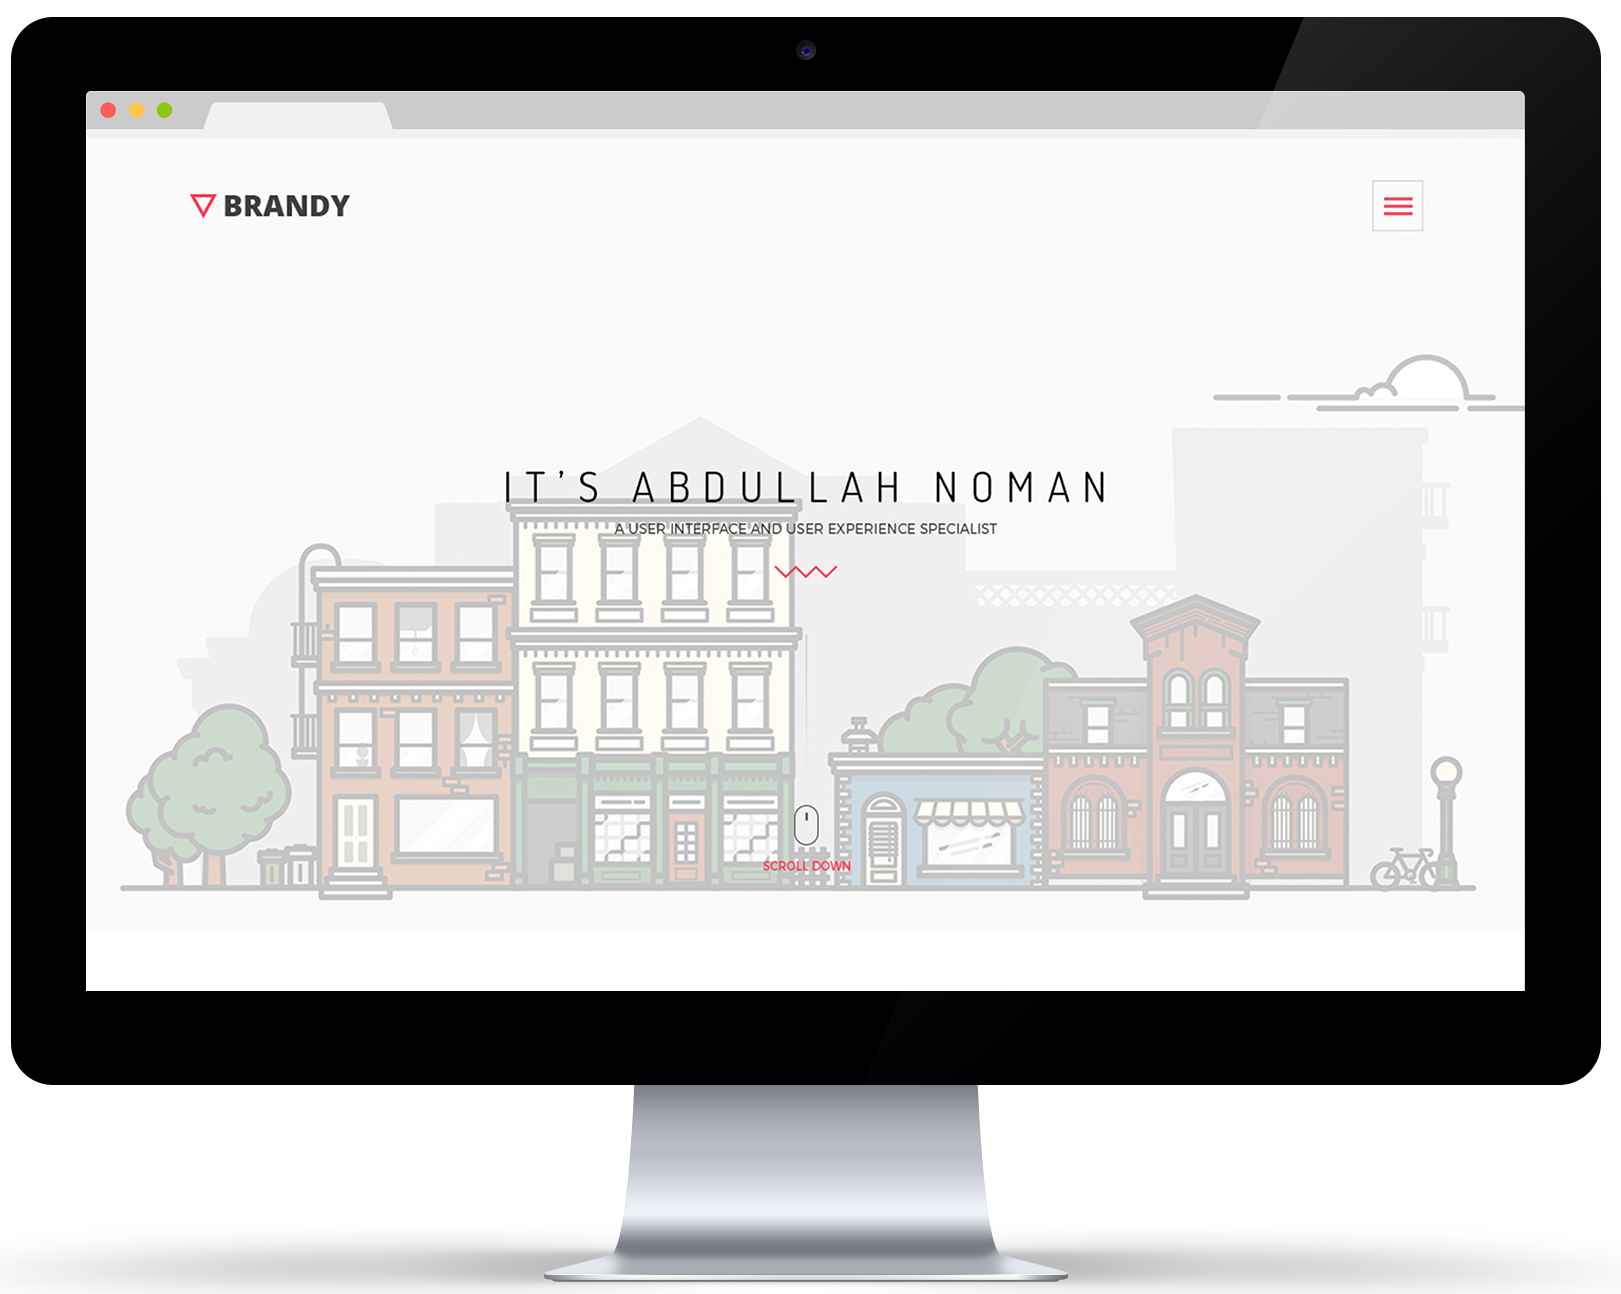
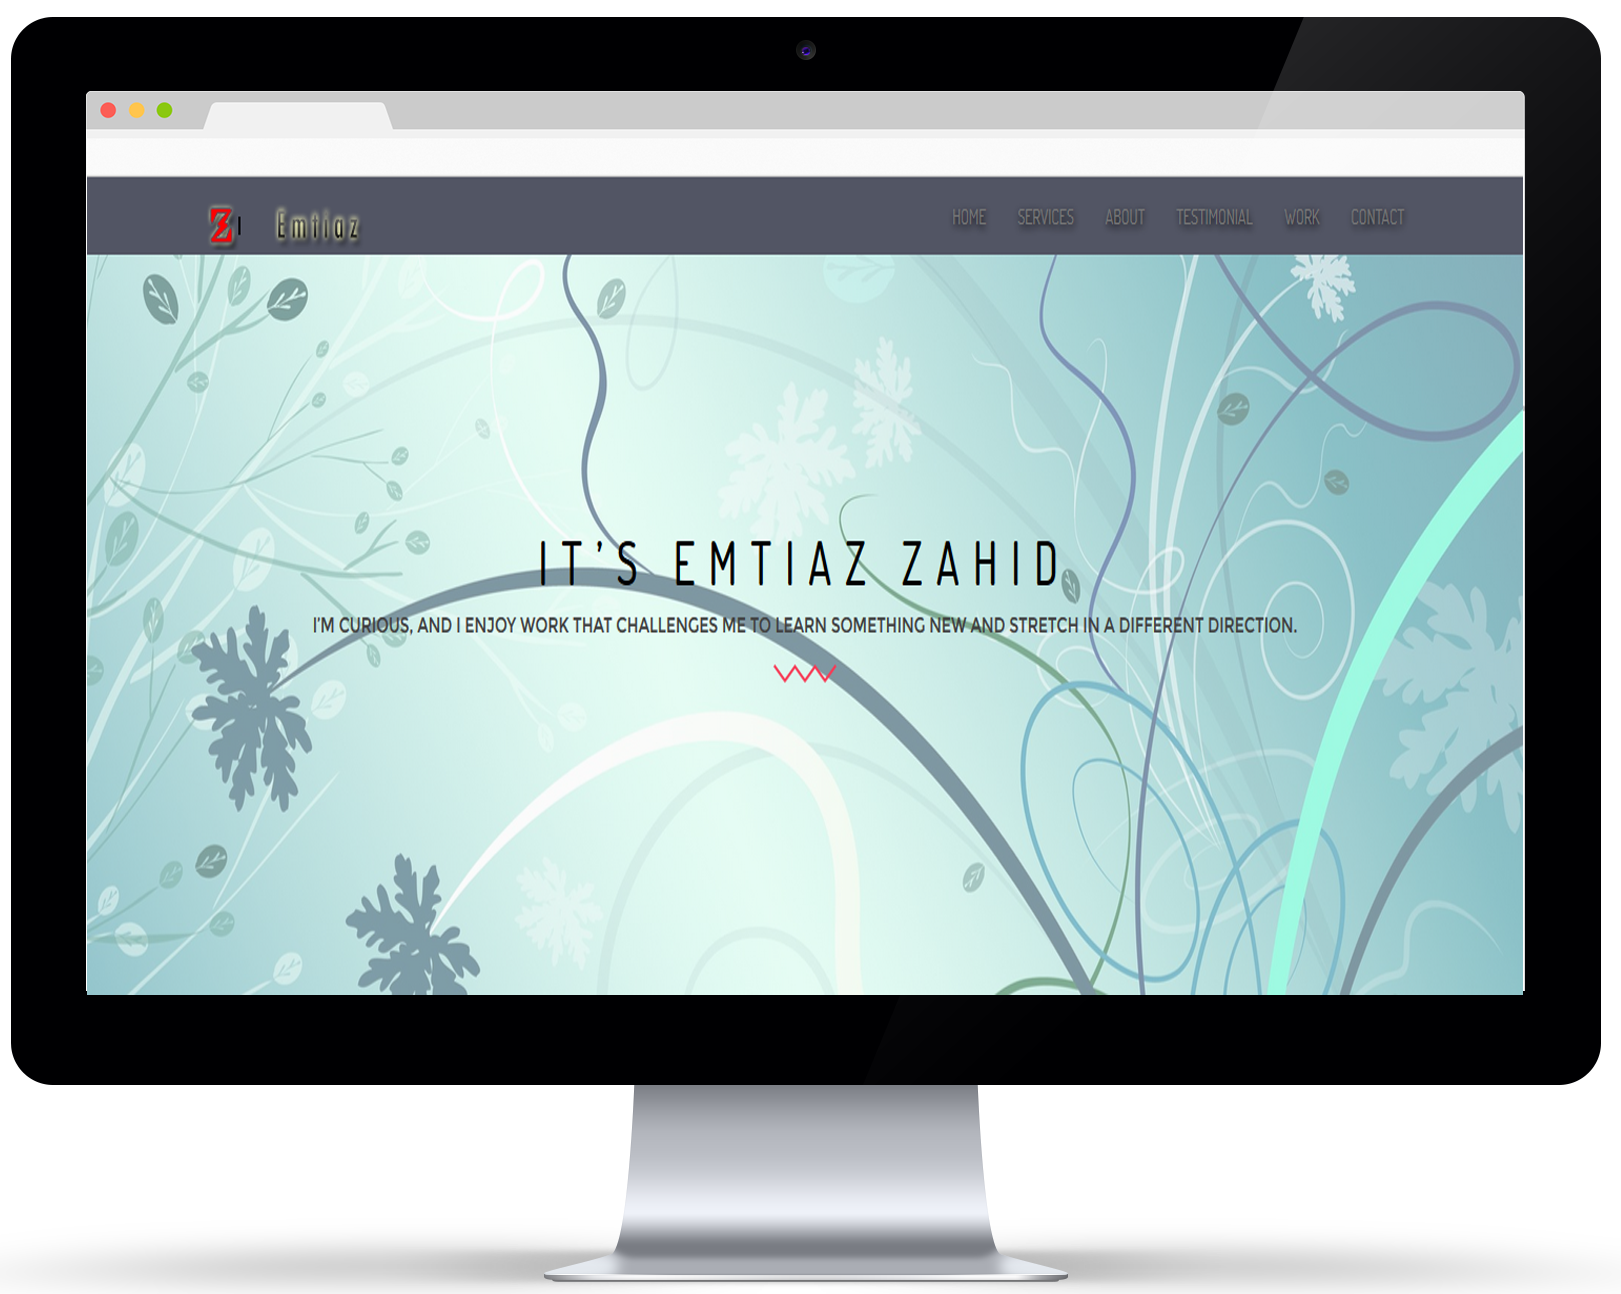
Changed color, Footer Changed and some text

diff --git a/index.html b/index.html
@@ -44,7 +44,7 @@
 	<![endif]-->
 </head>
 
-<body>
+<body style="background-color:#DBF6EF;">
                 <!-- Preloader -->
                 <div id="preloader">
                     <div id="status">&nbsp;</div>
@@ -53,9 +53,9 @@
 
 
 
-    <header id="HOME" style="background-position: 50% -125px;">
+    <header id="HOME" style="background-position: 50% -125px;" >
 	        <div class="section_overlay">
-	            <nav class="navbar navbar-default navbar-fixed-top">
+	            <nav class="navbar navbar-default navbar-fixed-top" style="background-color:#525564;">
 	              <div class="container">
 	                <!-- Brand and toggle get grouped for better mobile display -->
 	                <div class="navbar-header">
@@ -241,22 +241,22 @@
 	                            <div class="col-md-4">
 	                                <div class="single_count">
 	                                    <i class="icon-toolbox"></i>
-	                                    <h3>300</h3>
-	                                    <p>Project Done</p>
+	                                    <h3>Gaming</h3>
+	                                    <p>In my free Times</p>
 	                                </div>
 	                            </div>
 	                            <div class="col-md-4">
 	                                <div class="single_count">
 	                                    <i class="icon-clock"></i>
-	                                    <h3>1700+</h3>
-	                                    <p>Hours Worked</p>
+	                                    <h3>Coding</h3>
+	                                    <p>In my work Times</p>
 	                                </div>                            
 	                            </div>
 	                            <div class="col-md-4">
 	                                <div class="single_count">
 	                                    <i class="icon-trophy"></i>
-	                                    <h3>37</h3>
-	                                    <p>Awards Won</p>
+	                                    <h3>Movies</h3>
+	                                    <p>In relax Time</p>
 	                                </div>                            
 	                            </div>
 	                        </div>
@@ -290,8 +290,8 @@
                         <img src="images/w1.jpg" alt="">
                         <div class="image_overlay">
                             <a href="">View Full Project</a>
-                            <h2>drawing</h2>
-                            <h4>with pencil colors</h4>
+                            <h2>Visiting Card Design</h2>
+                            <h4>with Photoshop cs6</h4>
                         </div>
                     </div>
                 </div>
@@ -387,15 +387,15 @@
                 <div class="col-md-3  wow fadeInLeft animated">
                     <div class="single_contact_info">
                         <h2>Call Me</h2>
-                        <p>+88 00 123 456 01</p>
+                        <p>+88 01 686407947</p>
                     </div>
                     <div class="single_contact_info">
                         <h2>Email Me</h2>
-                        <p>Hello@abdullahnoman.com</p>
+                        <p>emtiazzahid@gmail.com</p>
                     </div>
                     <div class="single_contact_info">
                         <h2>Address</h2>
-                        <p>216 Street Address, Barisal, BD</p>
+                        <p>Mirpur, Dhaka, BD</p>
                     </div>
                 </div>
                 <div class="col-md-9  wow fadeInRight animated">
@@ -428,7 +428,7 @@
 
 
 
-<footer>
+<footer style="background-color:#525564;">
     <div class="container">
         <div class="container">
             <div class="row">
@@ -445,11 +445,11 @@
                     <div class="social">
                         <h2>Follow Me on Here</h2>
                         <ul class="icon_list">
-                            <li><a href="http://www.facebook.com/abdullah.noman99"target="_blank"><i class="fa fa-facebook"></i></a></li>
-                            <li><a href="http://www.twitter.com/absconderm"target="_blank"><i class="fa fa-twitter"></i></a></li>
+                            <li><a href="http://www.github.com/emtiazzahid"><i class="fa fa-github"></i></a></li>
+                            <li><a href="http://www.twitter.com/emtiazzahid"target="_blank"><i class="fa fa-twitter"></i></a></li>
                             <li><a href=""><i class="fa fa-google-plus"></i></a></li>
-                            <li><a href=""><i class="fa fa-linkedin"></i></a></li>
-                            <li><a href="http://www.dribbble.com/abdullahnoman"target="_blank"><i class="fa fa-dribbble"></i></a></li>
+                            <li><a href="http://www.facebook.com/emtiazzahid"target="_blank"><i class="fa fa-facebook"></i></a></li>
+                            <li><a href="http://www.dribbble.com/emtiazzahid"target="_blank"><i class="fa fa-dribbble"></i></a></li>
                         </ul>
                     </div>
                 </div>
@@ -459,7 +459,7 @@
             <div class="row">
                 <div class="col-md-12 text-center">
                     <div class="copyright_text   wow fadeInUp animated">
-                        <p>&copy; brandy 2015.All Right Reserved By <a href="http://www.themeforest.net/user/thecodecafe"target="_blank">Code Cafe Team</a></p>
+                        <p>&copy; 2015.All Right Reserved By <a href="#######"target="_blank">#####</a></p>
                         <p>Made with love for creative people.</p>
                     </div>
                 </div>

diff --git a/css/style.css b/css/style.css
@@ -7,6 +7,8 @@ p{
 a{
 	font-family: 'Dosis', sans-serif;
 	text-decoration: none;
+	text-shadow: 1px 2px 5px #000;
+	color: #000;
 }
 h1, h2, h3, h4, h5, h6{
 	font-family: 'Dosis', sans-serif;
